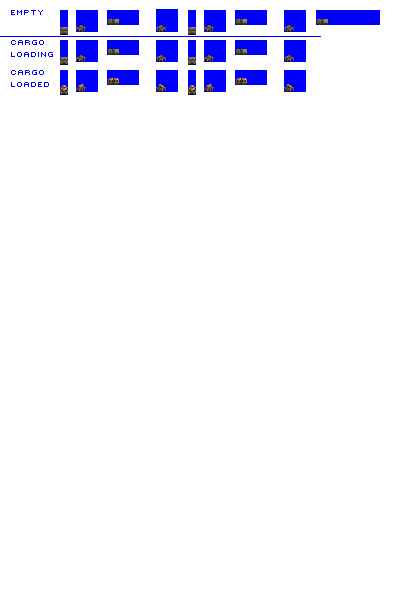
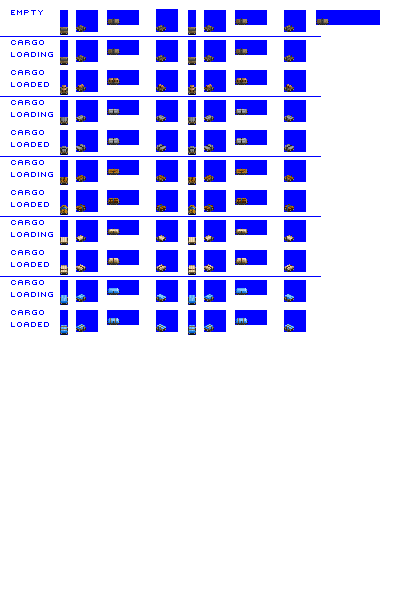
Feature: load sprites for narrow gauge flat car #6711

Changed region(s): [[0.39, 0.15, 0.78, 0.57], [0.15, 0.15, 0.36, 0.57], [0.03, 0.15, 0.12, 0.54]]

diff --git a/src/vehicles/flat_cars.py b/src/vehicles/flat_cars.py
@@ -2,7 +2,7 @@ import global_constants
 from train import TypeConfig, WagonConsist, Wagon, GraphicsProcessorFactory
 
 # cargo rows 0 indexed - 0 = first set of loaded sprites
-cargo_graphics_mappings = {'STEL': [1, 2, 3], 'WOOD': [4], 'WDPR': [5], 'ENSP': [6], 'FMSP': [6], 'MNSP': [6], 'GOOD': [6]}
+cargo_graphics_mappings = {'STEL': [1, 2, 3], 'WOOD': [4], 'WDPR': [5], 'ENSP': [6], 'FMSP': [6], 'MNSP': [6], 'GOOD': [0, 6]}
 
 options = {'template': 'flat_car_brit_gen_1_template.png'}
 graphics_processor_1 = GraphicsProcessorFactory('pass_through_pipeline', options)
@@ -109,11 +109,12 @@ consist.add_model_variant(intro_date=0,
                        graphics_processor=graphics_processor_2)
 
 
-cargo_graphics_mappings = {}
+# cargo rows 0 indexed - 0 = first set of loaded sprites
+cargo_graphics_mappings = {'STEL': [1], 'WOOD': [2], 'WDPR': [3], 'ENSP': [4], 'FMSP': [4], 'MNSP': [4], 'GOOD': [0, 4]}
 
 type_config = TypeConfig(base_id = 'flat_car_ng',
                 template = 'car_with_visible_cargo.pynml',
-                num_cargo_rows = 1,
+                num_cargo_rows = 5,
                 class_refit_groups = ['flatcar_freight'],
                 cargo_graphics_mappings = cargo_graphics_mappings,
                 label_refits_allowed = cargo_graphics_mappings.keys(),
